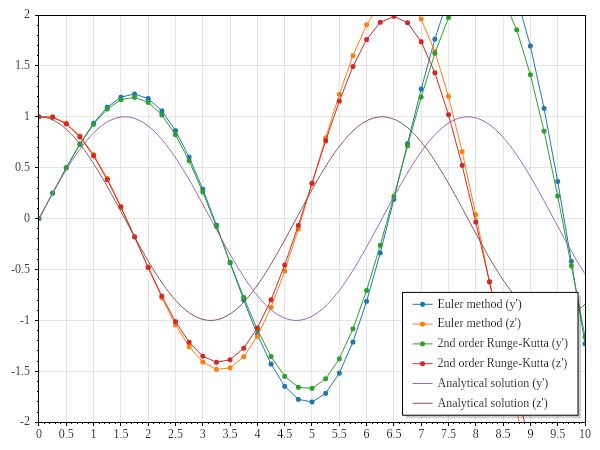
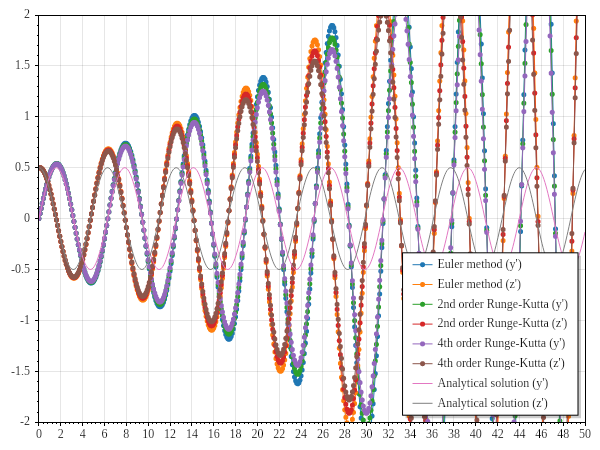
added matrix solution for 4th order runge-kutta, fixed 2nd order runge-kutta calculation for 2 ODEs

Changed region(s): [[0.06, 0.0311, 0.99, 0.9956], [0.96, 0.6844, 0.99, 0.7467]]

diff --git a/src/RK.cs b/src/RK.cs
@@ -5,9 +5,19 @@ static class RK{
 
 	private static (double, double) CalculateK2(Func<double,double> f, double y){
 		double k_1 = Consts.IntegrationSteps.RK*f(y);
-		double k_2 = Consts.IntegrationSteps.RK*f(y + Consts.IntegrationSteps.RK*(k_1/2));
+		double k_2 = Consts.IntegrationSteps.RK*f(y + Consts.IntegrationSteps.RK/2 * k_1);
 		return (k_1, k_2);
 	}
+
+	private static (double,double,double,double) CalculateK2(Func<double,double> f_y, Func<double,double> f_z, double y, double z){
+		double k_1y = Consts.IntegrationSteps.RK*f_y(z);
+		double k_1z = Consts.IntegrationSteps.RK*f_z(y);
+		double k_2y = Consts.IntegrationSteps.RK*f_y(z + Consts.IntegrationSteps.RK/2 * k_1z);
+		double k_2z = Consts.IntegrationSteps.RK*f_z(y + Consts.IntegrationSteps.RK/2 * k_1y);
+		return (k_1y, k_1z, k_2y, k_2z);
+	}
+
+
 
 	private static (Matrix<double>, Matrix<double>) CalculateK2(Matrix<double> m, Matrix<double> initial){
 		Matrix<double> k_1 = Consts.IntegrationSteps.RK * m * initial;
@@ -16,6 +26,7 @@ static class RK{
 	}
 
 	public static void SecondOrd(Func<double,double> f, double y, List<double> vals, out TimeSpan exec_time){
+		stopwatch.Reset();
 		stopwatch.Start();
 		double k_1,k_2;
 		for(double i = 0; i<=Consts.T_max; i+=Consts.IntegrationSteps.RK){
@@ -31,14 +42,12 @@ static class RK{
 	public static void SecondOrd(Func<double,double> y_prime, Func<double,double> z_prime, double y, double z, List<(double,double)> vals, out TimeSpan exec_time){
 		stopwatch.Reset();
 		stopwatch.Start();
-		double new_y, new_z, k_1, k_2;
+		double k_1y, k_1z, k_2y, k_2z;
 		for(double i = 0; i<=Consts.T_max; i+=Consts.IntegrationSteps.RK){
 			vals.Add((y, z));
-			(k_1, k_2) = CalculateK2(y_prime, z);
-			new_y = y + (k_1 + k_2)/2;
-			(k_1, k_2) = CalculateK2(z_prime, y);
-			new_z = z + (k_1 + k_2)/2;
-			(y, z) = (new_y, new_z);
+			(k_1y, k_1z, k_2y, k_2z) = CalculateK2(y_prime, z_prime, y, z);
+			y += (k_1y + k_2y)/2;
+			z += (k_1z + k_2z)/2;
 		}
 		stopwatch.Stop();
 		exec_time = stopwatch.Elapsed;
@@ -60,13 +69,50 @@ static class RK{
 	}
 
 	public static void FourthOrd(Func<double,double> f, double y, List<double> vals, out TimeSpan exec_time){
+		stopwatch.Reset();
 		stopwatch.Start();
+		double k_1, k_2, k_3, k_4;
 		for(double i = 0; i<=Consts.T_max; i+=Consts.IntegrationSteps.RK){
 			vals.Add(y);
-			(double k_1, double k_2) = CalculateK2(f, y);
-			double k_3 = Consts.IntegrationSteps.RK*f(y + Consts.IntegrationSteps.RK*(k_2/2));
-			double k_4 = Consts.IntegrationSteps.RK*f(y + Consts.IntegrationSteps.RK*k_3);
+			(k_1, k_2) = CalculateK2(f, y);
+			k_3 = Consts.IntegrationSteps.RK*f(y + Consts.IntegrationSteps.RK/2 * k_2);
+			k_4 = Consts.IntegrationSteps.RK*f(y + Consts.IntegrationSteps.RK*k_3);
 			y += (k_1 + 2*k_2 + 2*k_3 + k_4)/6;
+		}
+		stopwatch.Stop();
+		exec_time = stopwatch.Elapsed;
+		stopwatch.Reset();
+	}
+
+	public static void FourthOrd(Func<double,double> y_prime, Func<double,double> z_prime, double y, double z, List<(double,double)> vals, out TimeSpan exec_time){
+		stopwatch.Reset();
+		stopwatch.Start();
+		double k_1y, k_1z, k_2y, k_2z, k_3y, k_3z, k_4y, k_4z;
+		for(double i = 0; i<=Consts.T_max; i+=Consts.IntegrationSteps.RK){
+			vals.Add((y,z));
+			(k_1y, k_1z, k_2y, k_2z) = CalculateK2(y_prime, z_prime, y, z);
+			k_3y = Consts.IntegrationSteps.RK * y_prime(z + Consts.IntegrationSteps.RK/2 * k_2z);
+			k_3z = Consts.IntegrationSteps.RK * z_prime(y + Consts.IntegrationSteps.RK/2 * k_2y);
+			k_4y = Consts.IntegrationSteps.RK * y_prime(z + Consts.IntegrationSteps.RK * k_3z);
+			k_4z = Consts.IntegrationSteps.RK * z_prime(y + Consts.IntegrationSteps.RK * k_3y);
+			y += (k_1y + 2*k_2y + 2*k_3y + k_4y)/6;
+			z += (k_1z + 2*k_2z + 2*k_3z + k_4z)/6;
+		}
+		stopwatch.Stop();
+		exec_time = stopwatch.Elapsed;
+		stopwatch.Reset();
+	}
+
+	public static void FourthOrd(Matrix<double> m, Matrix<double> initial, List<Matrix<double>> vals, out TimeSpan exec_time){
+		stopwatch.Reset();
+		stopwatch.Start();
+		Matrix<double> k_1, k_2, k_3, k_4;
+		for(double i = 0; i<=Consts.T_max; i+=Consts.IntegrationSteps.RK){
+			vals.Add(initial);
+			(k_1, k_2) = CalculateK2(m, initial);
+			k_3 = Consts.IntegrationSteps.RK * m * (initial + Consts.IntegrationSteps.RK/2 * k_2);
+			k_4 = Consts.IntegrationSteps.RK * m * (initial + Consts.IntegrationSteps.RK * k_3);
+			initial += (k_1 + 2*k_2 + 2*k_3 + k_4)/6;
 		}
 		stopwatch.Stop();
 		exec_time = stopwatch.Elapsed;

diff --git a/Main.cs b/Main.cs
@@ -74,6 +74,15 @@ class Solver{
 		plot.Add.Scatter(Enumerable.Range(0, result.Count+1).Select(i => i*Consts.IntegrationSteps.RK).ToArray(), result.Select(i => i.z).ToArray()).LegendText = "2nd order Runge-Kutta (z')";
 
 		result.Clear();
+	
+		RK.FourthOrd(Functs.Y_prime, Functs.Z_prime, Consts.InitialConditions.Y, Consts.InitialConditions.Z, result, out exec_time);
+
+		Console.WriteLine($"2nd order Runge-Kutta method execution time: {exec_time.TotalMilliseconds} ms");
+
+		plot.Add.Scatter(Enumerable.Range(0, result.Count+1).Select(i => i*Consts.IntegrationSteps.RK).ToArray(), result.Select(i => i.y).ToArray()).LegendText = "4th order Runge-Kutta (y')";
+		plot.Add.Scatter(Enumerable.Range(0, result.Count+1).Select(i => i*Consts.IntegrationSteps.RK).ToArray(), result.Select(i => i.z).ToArray()).LegendText = "4th order Runge-Kutta (z')";
+
+		result.Clear();	
 
 		var f = plot.Add.Function(Functs.Analytical.Y);
 		f.MinX = 0;
@@ -116,6 +125,16 @@ class Solver{
 		plot.Add.Scatter(Enumerable.Range(0, result.Count+1).Select(i => i*Consts.IntegrationSteps.Euler).ToArray(), result.Select(i => i[1,0]).ToArray()).LegendText = "2nd order Runge-Kutta (z')";
 
 		result.Clear();
+
+		RK.FourthOrd(DenseMatrix.OfArray(m), DenseMatrix.OfArray(initial), result, out exec_time);
+
+		Console.WriteLine($"4th order Runge-Kutta execution time: {exec_time.TotalMilliseconds} ms");
+
+		plot.Add.Scatter(Enumerable.Range(0, result.Count+1).Select(i => i*Consts.IntegrationSteps.Euler).ToArray(), result.Select(i => i[0,0]).ToArray()).LegendText = "4th order Runge-Kutta (y')";
+		plot.Add.Scatter(Enumerable.Range(0, result.Count+1).Select(i => i*Consts.IntegrationSteps.Euler).ToArray(), result.Select(i => i[1,0]).ToArray()).LegendText = "4th order Runge-Kutta (z')";
+
+		result.Clear();
+
 
 		var f = plot.Add.Function(Functs.Analytical.Y);
 		f.MinX = 0;

diff --git a/input/Consts.cs b/input/Consts.cs
@@ -4,16 +4,16 @@ public struct Consts{
 	public struct InitialConditions{
 		public const double X = 2d;
 		public const double Y = 0d;
-		public const double Z = 1d;
+		public const double Z = 0.5d;
 	};
 	public struct IntegrationSteps{
-		public const double Euler = 0.25d;
-		public const double RK = 0.25d;
+		public const double Euler = 0.1d;
+		public const double RK = 0.1d;
 		public const double Taylor = 0.1d;
 	};
 	public const double Lambda = -1d;
 	public const double Omega = 1d;
-	public const double T_max = 10d;
+	public const double T_max = 50d;
 	public struct TaylorSeries{
 		public const uint MaxSteps = 50;
 		public const double EPS = 0.000005d; 
